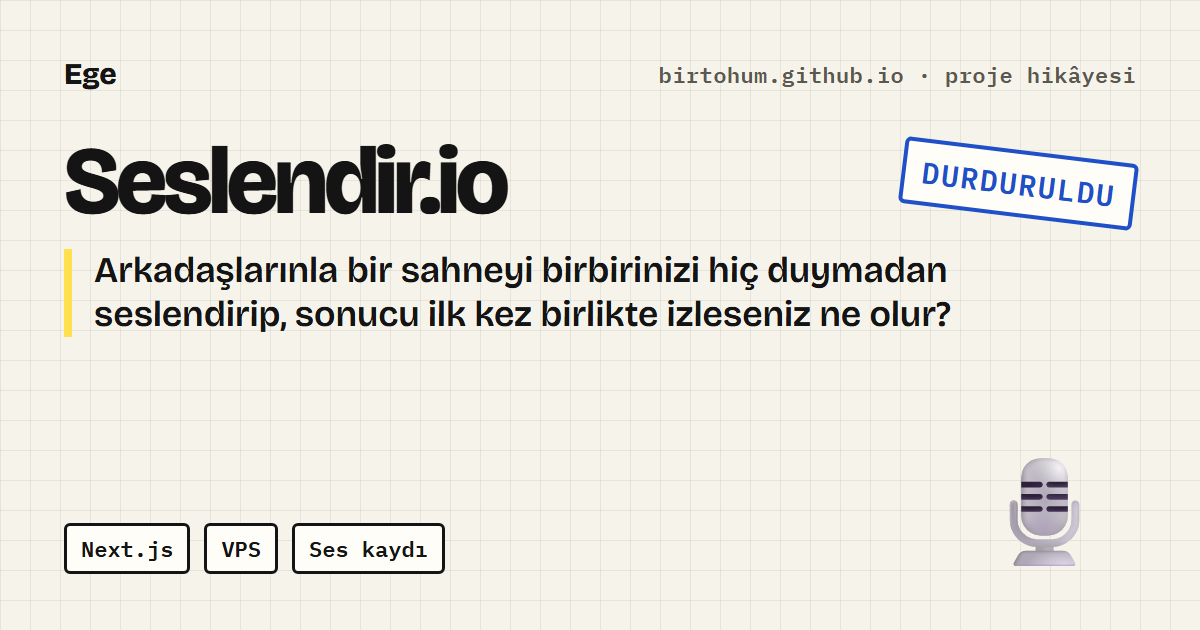
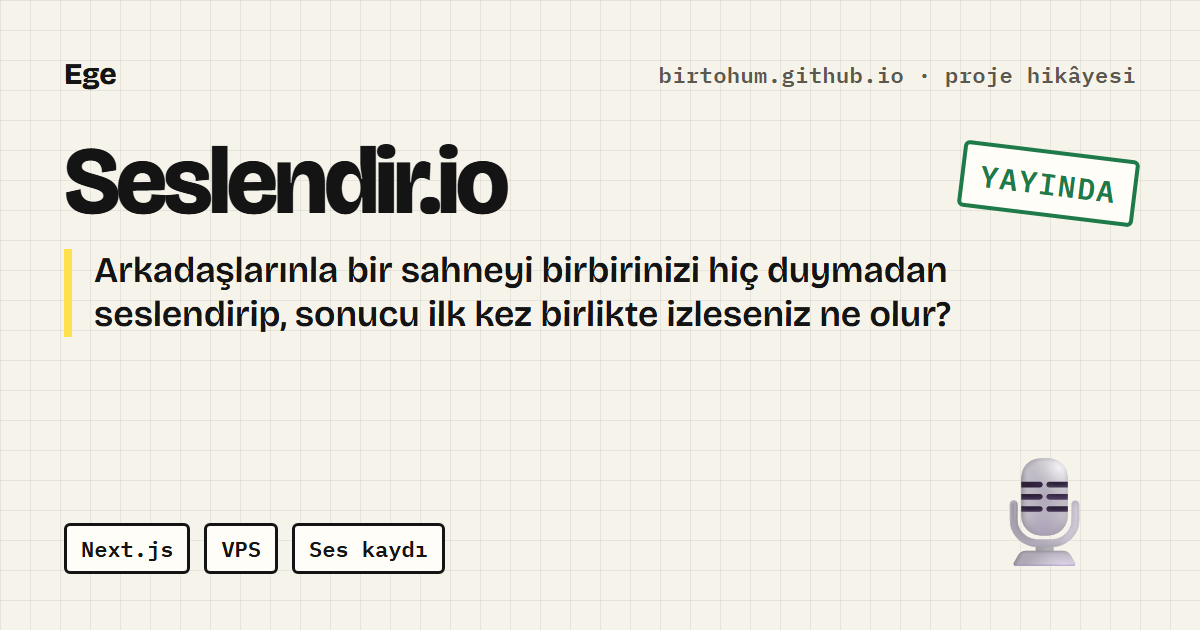
Seslendir yeniden yayında: seslendir.site bağlantısı, gerçek ekran görüntüsü, güncel sayılar

Changed region(s): [[0.74, 0.2111, 0.9558, 0.3619]]

diff --git a/veri.js b/veri.js
@@ -23,8 +23,8 @@ const PROJELER = [
    sonuc: "<b>13'ten fazla oyun:</b> Kızma Birader, Tombala, Sudoku, Bir Kelime Bir İşlem, Atasözü… Sıra sırayla ya da canlı, bota karşı da.",
    damga: ["Ailede", "iyi"], alt: ["React Native", "Expo", "Firebase"], link: []},
   {t: "urun", em: "🎙", ad: "Seslendir.io", ne: "Çok oyunculu \"kör dublaj\" parti oyunu. Herkes kendi repliğini başkalarını duymadan kaydeder, sonra dublaj birlikte izlenir.",
-   sonuc: "Gerçek oyuncularla yayındaydı: kendi sunucusunda, sıralama tablosu ve profillerle. <b>283 commit.</b> Şu an durdurulmuş.",
-   damga: ["Durduruldu", "notr"], alt: ["Next.js", "VPS", "Ses kaydı"], link: []},
+   sonuc: "Gerçek oyuncularla yayında: seslendir.site. Sitenin sayacına göre <b>939 dublaj, 10.830 replik.</b>",
+   damga: ["Yayında", "iyi"], alt: ["Next.js", "VPS", "Ses kaydı"], link: [["seslendir.site", "https://seslendir.site/"]]},
   {t: "urun", em: "🤝", ad: "Kaynaş", ne: "Arkadaş edinmekte zorlanan 15–24 yaş arası gençleri ortak ilgi alanları üzerinden buluşturan platform.",
    sonuc: "Fotoğraf yok, çizim avatar; 18 yaş altına veli onayı ve veli paneli; yalnızca arkadaşlar arası mesaj. Kurulum aşamasında.",
    damga: ["Prototip", "notr"], alt: ["Next.js", "Supabase", "Güvenlik"], link: []},
@@ -99,11 +99,13 @@ const HIKAYE = {
     not: "Çizim, ekran görüntüsü değil. Ortadaki uygulamanın gerçek simgesi."},
   "Seslendir.io": {id: "seslendir", sahne: "ses",
     soru: "Arkadaşlarınla bir sahneyi birbirinizi hiç duymadan seslendirip, sonucu ilk kez birlikte izleseniz ne olur?",
-    sayilar: [["283", "commit"], ["Gerçek", "oyuncularla yayındaydı"], ["Durdu", "şu an kapalı"]],
+    sayilar: [["939", "dublaj"], ["10.830", "replik"], ["137", "sahne"]],
     yaptim: ["Çok oyunculu bir \"kör dublaj\" parti oyunu: odaya girilir, bir sahne ve rastgele bir karakter gelir, herkes kendi repliğini başkalarını duymadan kaydeder. Bitmiş dublaj herkes için aynı anda oynatılır.",
-      "Kendi sunucusunda (Oracle VPS, pm2, Caddy) çalışıyordu: sıralama tablosu, profiller, herkese açık durum sayfası, yönetici araçları ve kötüye kullanım için IP engelleme."],
+      "Kendi sunucusunda (Oracle VPS, pm2, Caddy) çalışıyor: haftalık sezon, rozetler, sıralama tablosu, profiller, herkese açık durum sayfası, yönetici araçları ve kötüye kullanım için IP engelleme."],
     ogrendim: "Gerçek kullanıcıların olduğu bir sistemi canlıda tutmak kod yazmaktan farklı bir iş: dağıtım, yedek, güvenlik ve sunucu faturası.",
-    not: "Çizim, ekran görüntüsü değil. Sunucu şu an kapalı."},
+    gorseller: [[G + "p-seslendir.webp", "seslendir.site ana sayfası, 4 Kasım 2026 (gerçek ekran görüntüsü)"]],
+    link: [["Siteye git ↗", "https://seslendir.site/"]],
+    not: "Üstteki sahne çizim; alttaki görüntü gerçek. Sayılar sitenin kendi sayacından, 4 Kasım 2026."},
   "Kaynaş": {id: "kaynas", sahne: "kaynas",
     soru: "Arkadaş edinmekte zorlanan bir genç, güvenle yaşıtlarıyla nasıl tanışır?",
     sayilar: [["15–24", "yaş"], ["0", "fotoğraf, çizim avatar"], ["Veli", "onayı 18 yaş altına"]],

diff --git a/en.js b/en.js
@@ -80,14 +80,16 @@ const EN_PROJE = {
     ogrendim: "Few games, but good ones. After every stage I changed direction based on how my parents reacted.",
     not: "Illustration, not a screenshot. The icon in the middle is the app's real icon."},
   "Seslendir.io": {ne: "A multiplayer \"blind dubbing\" party game: everyone records their lines without hearing the others, then the dub is watched together.",
-    sonuc: "It was live with real players: on its own server, with leaderboards and profiles. <b>283 commits.</b> Currently paused.",
-    damga: "Paused", alt: ["Next.js", "VPS", "Audio recording"],
+    sonuc: "Live with real players: seslendir.site. By the site's own counter, <b>939 dubs, 10,830 lines.</b>",
+    damga: "Live", alt: ["Next.js", "VPS", "Audio recording"],
     soru: "What happens if you and your friends dub a scene without hearing each other, then watch the result together for the first time?",
-    sayilar: [["283", "commits"], ["Real", "players, while it was live"], ["Paused", "currently offline"]],
+    sayilar: [["939", "dubs"], ["10,830", "recorded lines"], ["137", "scenes"]],
     yaptim: ["A multiplayer \"blind dubbing\" party game: you join a room, get a scene and a random character, and everyone records their lines without hearing the others. The finished dub plays for everyone at the same time.",
-      "It ran on its own server (Oracle VPS, pm2, Caddy): leaderboards, profiles, a public status page, admin tools and IP bans against abuse."],
+      "It runs on its own server (Oracle VPS, pm2, Caddy): weekly seasons, badges, leaderboards, profiles, a public status page, admin tools and IP bans against abuse."],
     ogrendim: "Keeping a system with real users running is a different job from writing code: deploys, backups, security and the server bill.",
-    not: "Illustration, not a screenshot. The server is currently offline.", roller: ["Captain", "Dragon", "Lion", "Astronaut"]},
+    gorseller: [["gorsel/p-seslendir.webp", "The seslendir.site home page, 4 November 2026 (real screenshot)"]],
+    link: [["Visit the site ↗", "https://seslendir.site/"]],
+    not: "The scene above is an illustration; the image below is real. Numbers from the site's own counter, 4 November 2026.", roller: ["Captain", "Dragon", "Lion", "Astronaut"]},
   "Kaynaş": {ne: "A platform that brings together 15–24-year-olds who struggle to make friends, through shared interests.",
     sonuc: "No photos, drawn avatars; parental consent and a parent panel for under-18s; messages only between friends. In setup.",
     damga: "Prototype", alt: ["Next.js", "Supabase", "Safety"],

diff --git a/cv/index.html b/cv/index.html
@@ -86,7 +86,7 @@ h2{font:600 .74rem "IBM Plex Mono",monospace;letter-spacing:.14em;text-transform
   <div class="proje"><h3>Sepet Enflasyonu · Kaç Sigara? · İETT Dakiklik</h3><span class="t">GitHub Actions · zamanlanmış görev</span>
     <p>Her gün kendi kendine veri toplayan üç site: 83 ürünlük market sepeti endeksi ve TÜFE karşılaştırması; Bakanlığın 210 istasyonundan il il PM2.5; İETT'nin canlı konumundan otobüs dakikliği.</p></div>
   <div class="proje"><h3>Seslendir.io</h3><span class="t">Next.js · TypeScript · VPS</span>
-    <p>Çok oyunculu "kör dublaj" parti oyunu; gerçek oyuncularla kendi sunucusunda (Oracle VPS, pm2, Caddy) yayındaydı. Sıralama, profiller, yönetici araçları. 283 commit.</p></div>
+    <p>Çok oyunculu "kör dublaj" parti oyunu; gerçek oyuncularla kendi sunucusunda (Oracle VPS, pm2, Caddy) yayında; sitenin sayacına göre 939 dublaj, 10.830 replik. Sıralama, rozetler, yönetici araçları. <a href="https://seslendir.site/">seslendir.site</a></p></div>
   <div class="proje"><h3>Bizim Masa</h3><span class="t">React Native · Expo · Firebase</span>
     <p>Annem ve babam için şifresiz, büyük yazılı aile oyun salonu: 13'ten fazla oyun, sıra sırayla ya da canlı; kurallar testli motor dosyalarında, hamleler sunucuda doğrulanıyor.</p></div>
 

diff --git a/cv/en/index.html b/cv/en/index.html
@@ -86,7 +86,7 @@ h2{font:600 .74rem "IBM Plex Mono",monospace;letter-spacing:.14em;text-transform
   <div class="proje"><h3>Sepet Enflasyonu · Kaç Sigara? · İETT Dakiklik</h3><span class="t">GitHub Actions · scheduled jobs</span>
     <p>Three sites that collect their own data every day: an 83-item grocery basket index compared with CPI; province-level PM2.5 from the ministry's 210 stations; Istanbul bus punctuality from İETT's live vehicle positions.</p></div>
   <div class="proje"><h3>Seslendir.io</h3><span class="t">Next.js · TypeScript · VPS</span>
-    <p>A multiplayer "blind dubbing" party game, live with real players on its own server (Oracle VPS, pm2, Caddy). Leaderboards, profiles, admin tools. 283 commits.</p></div>
+    <p>A multiplayer "blind dubbing" party game, live with real players on its own server (Oracle VPS, pm2, Caddy); 939 dubs and 10,830 recorded lines by the site's counter. Leaderboards, badges, admin tools. <a href="https://seslendir.site/">seslendir.site</a></p></div>
   <div class="proje"><h3>Bizim Masa</h3><span class="t">React Native · Expo · Firebase</span>
     <p>A password-free, large-text family games room for my parents: 13+ games, turn-based or live; rules live in tested engine files and moves are validated on the server.</p></div>
 

diff --git a/index.html b/index.html
@@ -340,8 +340,8 @@ const sayacOlay = (yol, baslik) => { try { window.goatcounter?.count?.({path: yo
   </footer>
 </div>
 
-<script src="veri.js?v=5"></script>
-<script src="en.js?v=5"></script>
+<script src="veri.js?v=6"></script>
+<script src="en.js?v=6"></script>
 <script>
 "use strict";
 const HEPSI = PROJELER;
